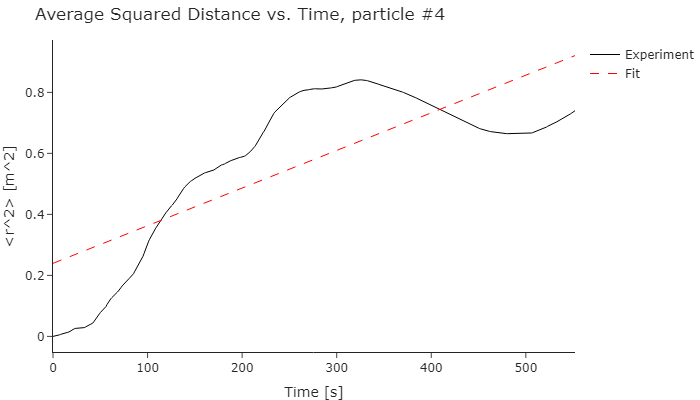
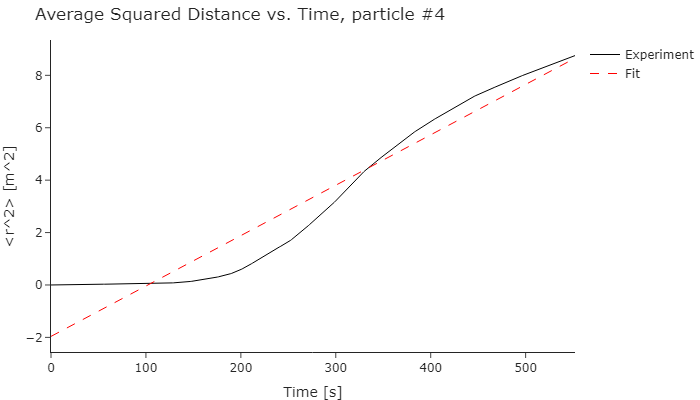
blacked out the drift drop for now, since it doesn't work

diff --git a/brownian_motion.py b/brownian_motion.py
@@ -13,7 +13,8 @@ def drop_drift(x, y, time):
     slope_y, intercept, r, p, se = linregress(time, y)
     utils.plot(time, x - slope_x * time, "", "", "x vs time")
     utils.plot(time, y - slope_y * time, "", "", "y vs time")
-    return (x - slope_x * time), (y - slope_y * time)
+    # return (x - slope_x * time), (y - slope_y * time)
+    return x, y
 
 
 def calc_average_r_squared(r_squared):
